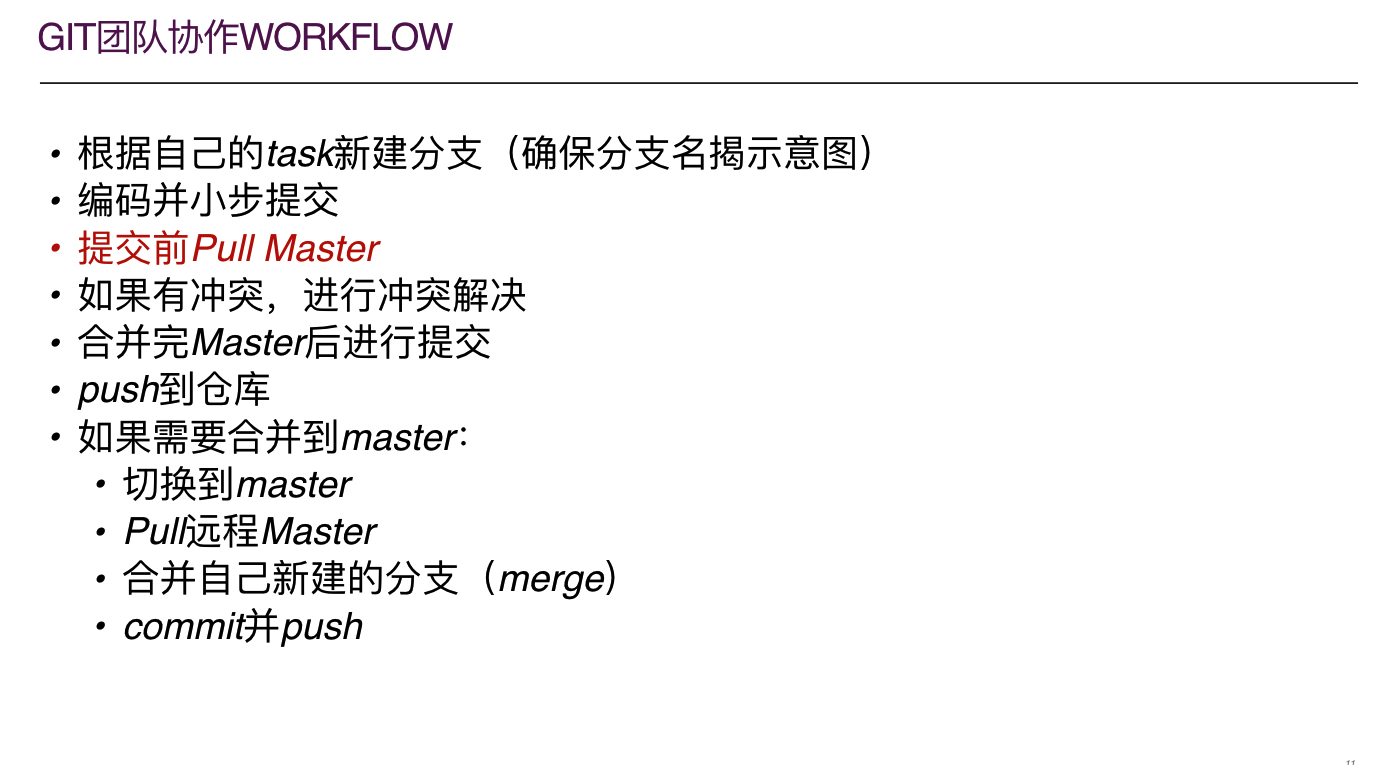
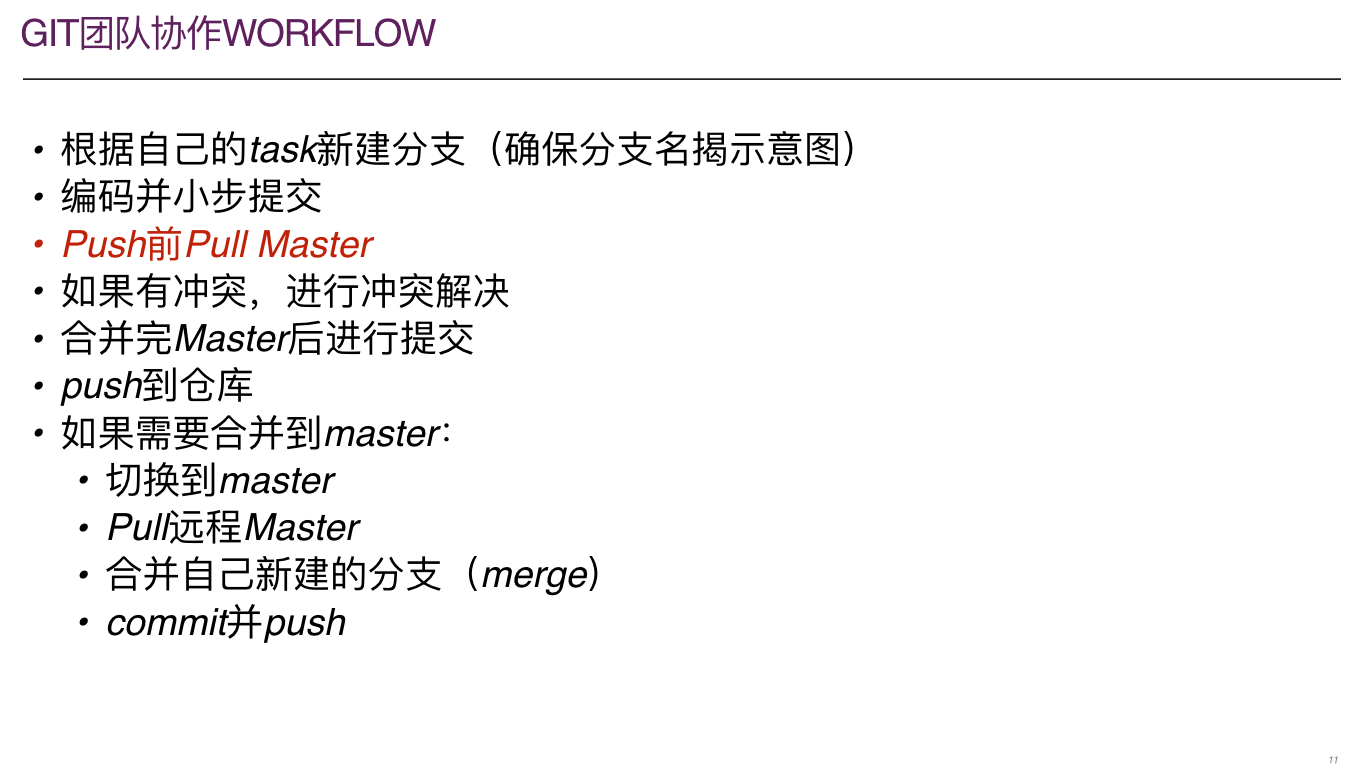
Site updated: 2018-07-14 09:22:21

Changed region(s): [[0.0307, 0.1503, 0.6452, 0.8418], [0.0, 0.0, 0.9832, 0.1203]]

diff --git a/2018/07/13/TWSchool-2/index.html b/2018/07/13/TWSchool-2/index.html
@@ -177,6 +177,7 @@
       <p>Your user agent does not support the HTML5 Video element.</p>
 </video>
 
+<p><strong>NOTE:视频中提到的“提交前先Pull Master”是指提交到远程前，即“Pull master before PUSH”，不是“Pull master before COMMIT”。手动修正一下，暂时来不及更新视频了，抱歉</strong></p>
 <h1 id="参考资料"><a href="#参考资料" class="headerlink" title="参考资料"></a>参考资料</h1><h2 id="Git团队协作workflow"><a href="#Git团队协作workflow" class="headerlink" title="Git团队协作workflow"></a>Git团队协作workflow</h2><p><img src="/imgs/TWSchool2-1.png" alt="workflow"></p>
 <h1 id="课后作业"><a href="#课后作业" class="headerlink" title="课后作业"></a>课后作业</h1><h2 id="代码整洁练习"><a href="#代码整洁练习" class="headerlink" title="代码整洁练习"></a>代码整洁练习</h2><p><img src="/imgs/TWSchool2-2.png" alt="clean code"></p>
 <h2 id="Git团队协作"><a href="#Git团队协作" class="headerlink" title="Git团队协作"></a>Git团队协作</h2><p>初始readme样例：<br><img src="/imgs/TWSchool2-3.png" alt="团队协作"></p>
